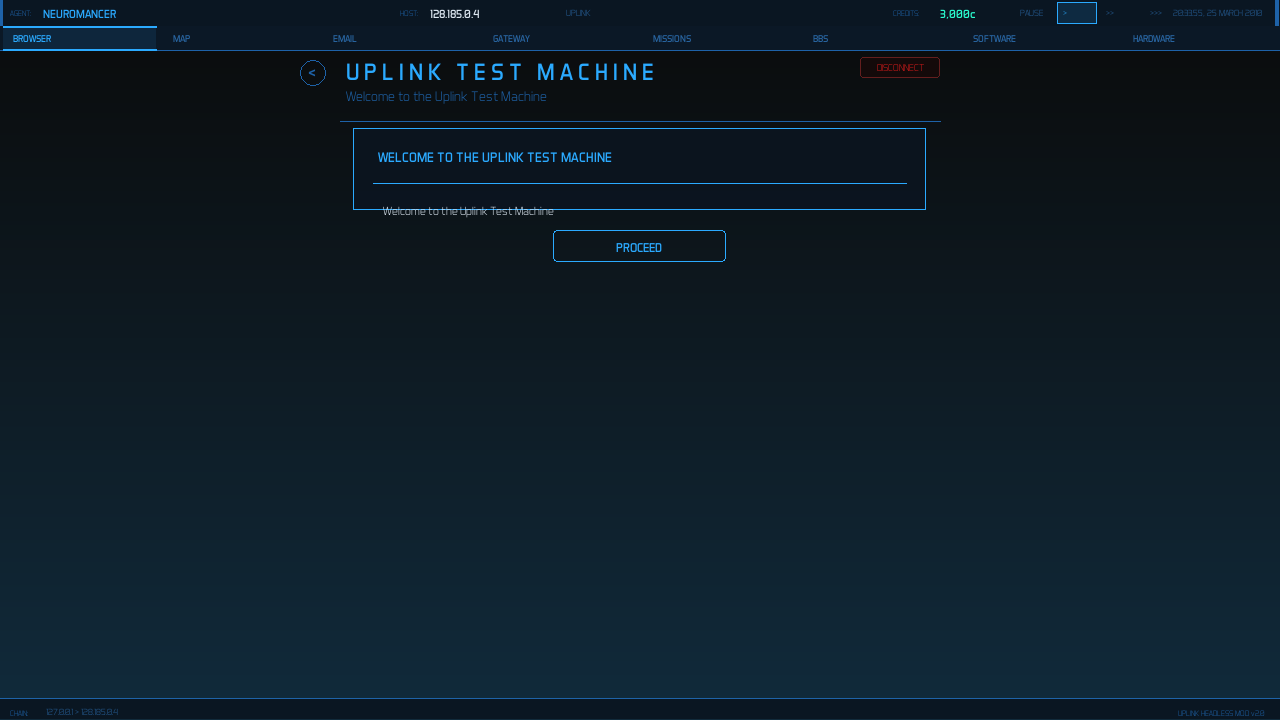
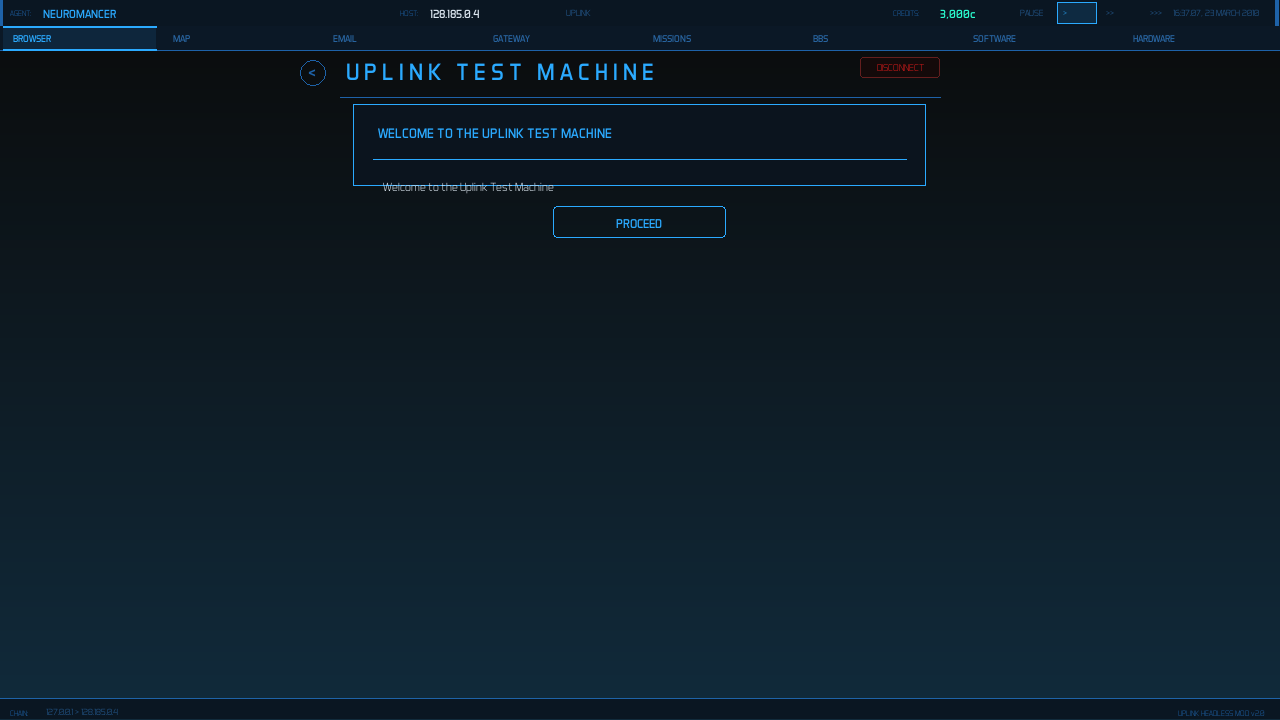
Round 20 polish: login labels, memory bar, message dedup, PROCEED button
- Login: CONNECT button text 32px, labels brightened to PRIMARY
- Bookmarks: InterNIC hint changed from TEXT_DIM to SECONDARY
- Gateway: memory bar uses thematic PRIMARY blue instead of yellow
- MessageScreen: deduplicate body text when identical to subtitle
- PROCEED button: subtle fill + corner tech accents
- Updated screenshots on fresh server

Changed region(s): [[0.25, 0.1222, 0.5, 0.3056], [0.4688, 0.275, 0.5312, 0.3667], [0.9375, 0.0, 0.9688, 0.0306]]

diff --git a/client/ui/browser.py b/client/ui/browser.py
@@ -209,7 +209,7 @@ class BrowserView:
 
         # Hint at bottom
         f_hint = get_font(scale.fs(14), light=True)
-        txt = f_hint.render("Connect to InterNIC to search for more servers", True, TEXT_DIM)
+        txt = f_hint.render("Connect to InterNIC to search for more servers", True, SECONDARY)
         surface.blit(txt, (scale.x(SCR_X + 10), scale.y(960)))
 
     def _handle_bookmarks_event(self, event, scale, state):
@@ -890,8 +890,15 @@ class BrowserView:
             theme_color = ALERT if is_warning else PRIMARY
             subtitle = state.screen_data.get("subtitle", "MESSAGE").upper()
             
-            lines = self._word_wrap(msg_text, f_body, scale.w(SCR_W - 80))
-            panel_h = len(lines) * 24 + 100
+            # Deduplicate: if subtitle is almost same as first few words of message, or message is subtitle
+            clean_msg = msg_text.strip().upper()
+            if subtitle in clean_msg and len(clean_msg) < len(subtitle) + 10:
+                # Same message, hide the body to avoid double-rendering identical text
+                lines = []
+            else:
+                lines = self._word_wrap(msg_text, f_body, scale.w(SCR_W - 80))
+            
+            panel_h = max(60, len(lines) * 24 + 100)
             panel_rect = scale.rect(SCR_X + 20, cy, SCR_W - 40, panel_h)
             
             # Background with subtle gradient/glow
@@ -934,12 +941,25 @@ class BrowserView:
             
             c = ALERT if (msg_text and any(k in msg_text.upper() for k in ("UNAUTHORISED", "CRIMINAL"))) else PRIMARY
             
-            if hovered:
-                pygame.draw.rect(surface, c, rect, 0, border_radius=4)
-                txt = f_btn.render("PROCEED", True, (0, 0, 0))
-            else:
-                pygame.draw.rect(surface, c, rect, 1, border_radius=4)
-                txt = f_btn.render("PROCEED", True, c)
+            # Subtle fill
+            fill = pygame.Surface((rect.w, rect.h), pygame.SRCALPHA)
+            fill.fill((*c, 60 if hovered else 25))
+            surface.blit(fill, rect.topleft)
+            
+            # Border + corner accents
+            pygame.draw.rect(surface, (*c, 140), rect, 1, border_radius=4)
+            # Corner accents (tech look)
+            cw, ch = scale.w(12), scale.h(12)
+            pygame.draw.line(surface, c, rect.topleft, (rect.x + cw, rect.y), 2)
+            pygame.draw.line(surface, c, rect.topleft, (rect.x, rect.y + ch), 2)
+            pygame.draw.line(surface, c, (rect.right-1, rect.bottom-1), (rect.right - cw, rect.bottom-1), 2)
+            pygame.draw.line(surface, c, (rect.right-1, rect.bottom-1), (rect.right-1, rect.bottom - ch), 2)
+            
+            txt_color = (0, 0, 0) if (hovered and not is_warning) else (WHITE if hovered else c)
+            if is_warning and hovered:
+                txt_color = (255, 255, 255)
+            
+            txt = f_btn.render("PROCEED", True, txt_color)
             surface.blit(txt, (rect.centerx - txt.get_width() // 2, rect.centery - txt.get_height() // 2))
 
     def _draw_generic(self, surface, scale, state, cy):

diff --git a/client/ui/login_screen.py b/client/ui/login_screen.py
@@ -11,15 +11,15 @@ class LoginScreen:
         self.handle_input = TextInput(760, 460, 400, 40, placeholder="Agent handle", size=24)
         self.password_input = TextInput(760, 530, 400, 40, placeholder="Password", masked=True, size=24)
         self.handle_input.focused = True
-        self.connect_btn = Button("CONNECT", 810, 605, 300, 54, callback=self._submit, color=PRIMARY, size=28)
+        self.connect_btn = Button("CONNECT", 810, 610, 300, 54, callback=self._submit, color=PRIMARY, size=32)
         self.error_msg = ""
         self.title = Label("U P L I N K", size=92, color=PRIMARY)
-        self.subtitle = Label("Neural Interface Access v4.2.0", size=24, color=SECONDARY, light=True)
-        self.handle_label = Label("HANDLE", size=18, color=SECONDARY, light=False)
-        self.password_label = Label("PASSWORD", size=18, color=SECONDARY, light=False)
+        self.subtitle = Label("Neural Interface Access v4.2.0", size=26, color=PRIMARY, light=True)
+        self.handle_label = Label("HANDLE", size=18, color=PRIMARY, light=False)
+        self.password_label = Label("PASSWORD", size=18, color=PRIMARY, light=False)
         
         # Tech panel for login
-        self.panel = HackerPanel(710, 410, 500, 290, title="Secure Login", color=SECONDARY)
+        self.panel = HackerPanel(710, 410, 500, 300, title="Secure Login", color=SECONDARY)
 
     def _submit(self):
         handle = self.handle_input.text.strip()
@@ -53,9 +53,9 @@ class LoginScreen:
         self.panel.draw(surface, scale)
 
         # Title
-        self.title.draw(surface, scale, 0, 200, align="center", max_w=1920)
+        self.title.draw(surface, scale, 0, 180, align="center", max_w=1920)
         # Subtitle
-        self.subtitle.draw(surface, scale, 0, 310, align="center", max_w=1920)
+        self.subtitle.draw(surface, scale, 0, 290, align="center", max_w=1920)
 
         # Labels
         self.handle_label.draw(surface, scale, 760, 432)

diff --git a/client/ui/content_tabs.py b/client/ui/content_tabs.py
@@ -538,7 +538,7 @@ class GatewayView:
         
         if mem_total > 0:
             fill_pct = min(1.0, mem_used / mem_total)
-            fill_color = ALERT if fill_pct > 0.9 else (SUCCESS if fill_pct < 0.7 else WARNING)
+            fill_color = ALERT if fill_pct > 0.9 else (SUCCESS if fill_pct < 0.7 else PRIMARY)
             fill_w = int(bar_rect.w * fill_pct)
             if fill_w > 0:
                 # Main fill
